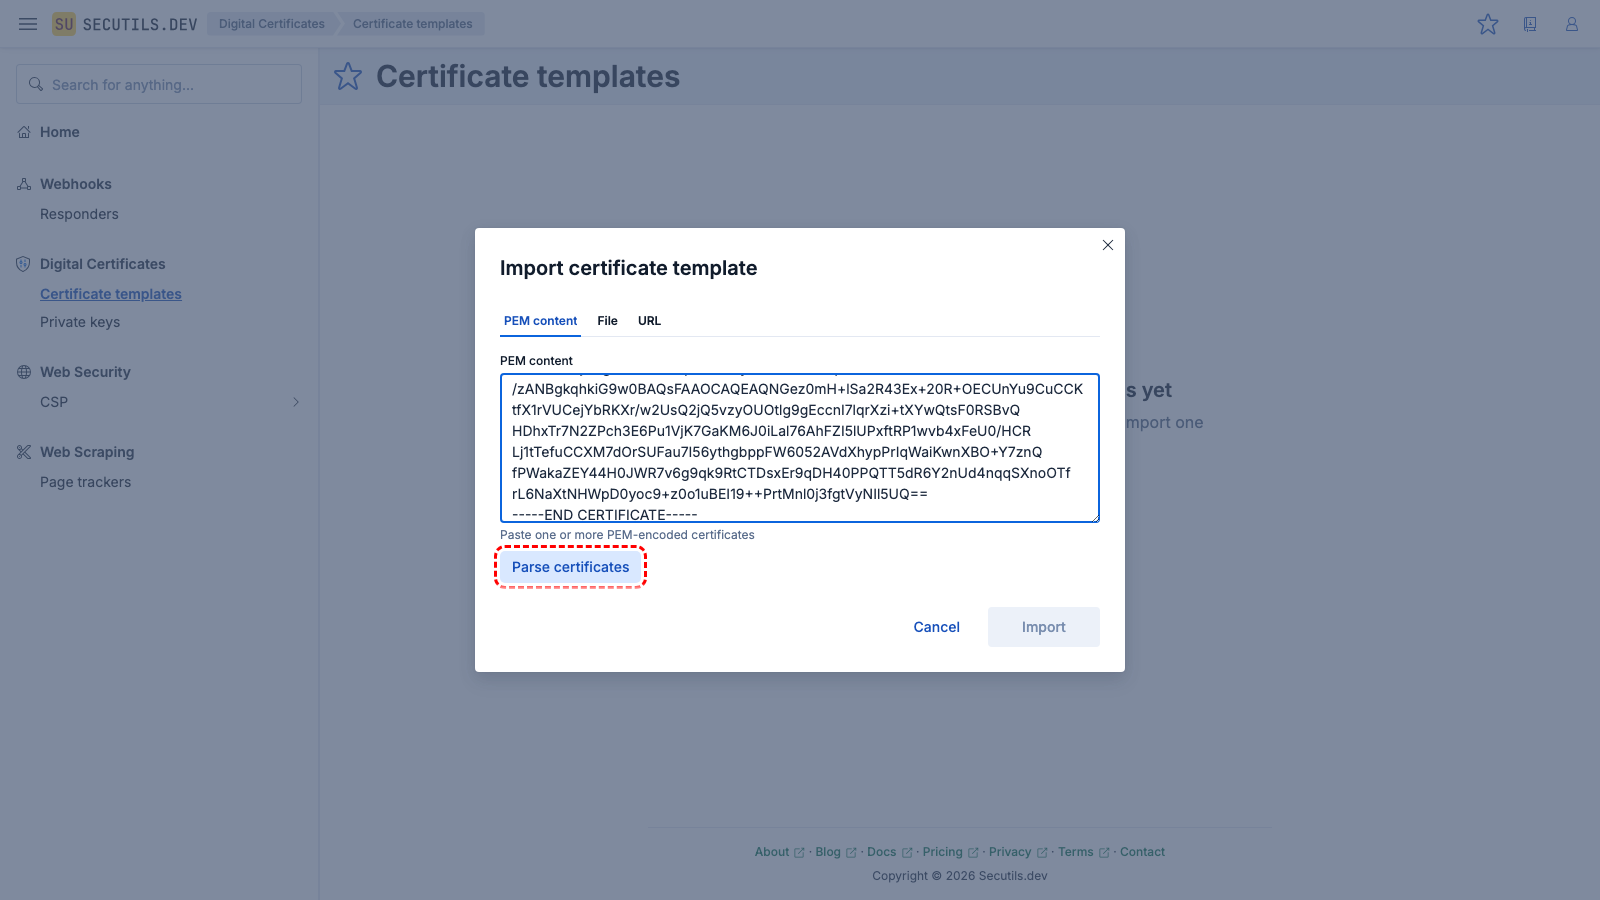
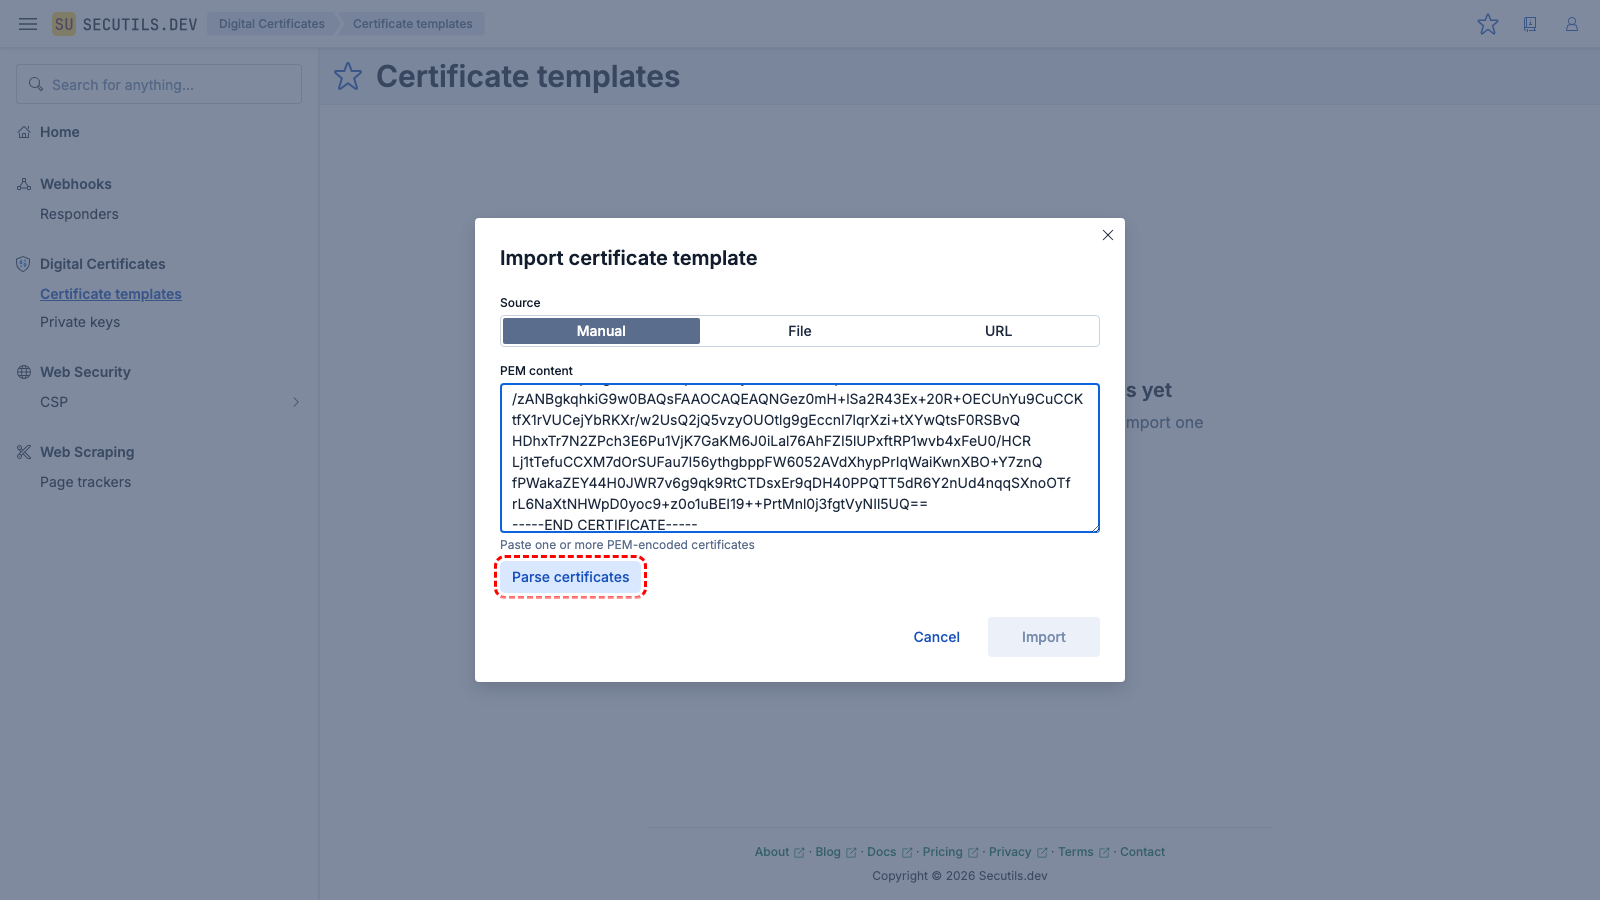
chore(certificates, ui): simplify import certificate modal

diff --git a/components/secutils-webui/src/pages/workspace/utils/certificates/certificate_template_import_modal.tsx b/components/secutils-webui/src/pages/workspace/utils/certificates/certificate_template_import_modal.tsx
@@ -1,6 +1,8 @@
 import {
   EuiButton,
   EuiButtonEmpty,
+  EuiButtonGroup,
+  EuiButtonIcon,
   EuiCallOut,
   EuiFieldText,
   EuiFilePicker,
@@ -12,14 +14,12 @@ import {
   EuiModalHeader,
   EuiModalHeaderTitle,
   EuiSpacer,
-  EuiTab,
-  EuiTabs,
   EuiText,
   EuiTextArea,
   EuiTitle,
   htmlIdGenerator,
 } from '@elastic/eui';
-import { useCallback, useState } from 'react';
+import { useCallback, useMemo, useState } from 'react';
 
 import type { CertificateSelection } from './certificate_import_preview';
 import { CertificateImportPreview } from './certificate_import_preview';
@@ -45,12 +45,18 @@ export interface CertificateTemplateImportModalProps {
   onClose: (success?: boolean) => void;
 }
 
-type ImportTab = 'pem' | 'file' | 'url';
+type ImportSource = 'manual' | 'file' | 'url';
+
+const SOURCE_OPTIONS: Array<{ id: ImportSource; label: string }> = [
+  { id: 'manual', label: 'Manual' },
+  { id: 'file', label: 'File' },
+  { id: 'url', label: 'URL' },
+];
 
 export function CertificateTemplateImportModal({ onClose }: CertificateTemplateImportModalProps) {
   const { uiState, addToast } = useWorkspaceContext();
 
-  const [activeTab, setActiveTab] = useState<ImportTab>('pem');
+  const [importSource, setImportSource] = useState<ImportSource>('manual');
   const [pemContent, setPemContent] = useState('');
   const [urlValue, setUrlValue] = useState('');
   const [parseError, setParseError] = useState<string | null>(null);
@@ -58,6 +64,7 @@ export function CertificateTemplateImportModal({ onClose }: CertificateTemplateI
   const [certificates, setCertificates] = useState<ParsedCertificate[]>([]);
   const [selections, setSelections] = useState<CertificateSelection[]>([]);
 
+  const [fetchStatus, setFetchStatus] = useState<AsyncData<undefined> | null>(null);
   const [parseStatus, setParseStatus] = useState<AsyncData<undefined> | null>(null);
   const [importStatus, setImportStatus] = useState<AsyncData<undefined> | null>(null);
 
@@ -66,6 +73,13 @@ export function CertificateTemplateImportModal({ onClose }: CertificateTemplateI
     setSelections([]);
     setParseError(null);
   }, []);
+
+  const clearAll = useCallback(() => {
+    setPemContent('');
+    setParseStatus(null);
+    setFetchStatus(null);
+    clearResults();
+  }, [clearResults]);
 
   const handleParsedCerts = useCallback(async (derBuffers: ArrayBuffer[], pemStrings: string[]) => {
     try {
@@ -99,7 +113,6 @@ export function CertificateTemplateImportModal({ onClose }: CertificateTemplateI
 
       try {
         const derBuffers = parsePemContent(content);
-        // Reconstruct PEM strings for each certificate.
         const pemStrings = derBuffers.map((der) => {
           const base64 = btoa(Array.from(new Uint8Array(der), (b) => String.fromCharCode(b)).join(''));
           const lines = base64.match(/.{1,64}/g) ?? [];
@@ -118,29 +131,30 @@ export function CertificateTemplateImportModal({ onClose }: CertificateTemplateI
 
   const handleFileUpload = useCallback(
     async (files: FileList | null) => {
+      clearResults();
       if (!files || files.length === 0) {
-        clearResults();
+        setPemContent('');
         return;
       }
 
-      const file = files[0];
       try {
-        const content = await file.text();
-        await handleParsePem(content);
+        const content = await files[0].text();
+        setPemContent(content);
       } catch (err) {
         setParseError(err instanceof Error ? err.message : 'Failed to read file.');
       }
     },
-    [clearResults, handleParsePem],
+    [clearResults],
   );
 
   const handleFetchUrl = useCallback(async () => {
-    if (!uiState.synced || parseStatus?.status === 'pending') {
+    if (!uiState.synced || fetchStatus?.status === 'pending') {
       return;
     }
 
     clearResults();
-    setParseStatus({ status: 'pending' });
+    setPemContent('');
+    setFetchStatus({ status: 'pending' });
 
     try {
       const response = await fetch(getApiUrl('/api/utils/certificates/templates/peer_certificates'), {
@@ -155,28 +169,20 @@ export function CertificateTemplateImportModal({ onClose }: CertificateTemplateI
       const pemStrings: string[] = await response.json();
       if (pemStrings.length === 0) {
         setParseError('No certificates found at the specified URL.');
-        setParseStatus({ status: 'failed', error: 'No certificates' });
+        setFetchStatus({ status: 'failed', error: 'No certificates' });
         return;
       }
 
-      const derBuffers = pemStrings.flatMap((pem) => {
-        try {
-          return parsePemContent(pem);
-        } catch {
-          return [];
-        }
-      });
-
-      await handleParsedCerts(derBuffers, pemStrings);
-      setParseStatus({ status: 'succeeded', data: undefined });
+      setPemContent(pemStrings.join('\n\n'));
+      setFetchStatus({ status: 'succeeded', data: undefined });
     } catch (err: unknown) {
       const errorMessage = getErrorMessage(err as Error);
       setParseError(
         isClientError(err as Error) ? errorMessage : 'Unable to fetch certificates from the specified URL.',
       );
-      setParseStatus({ status: 'failed', error: errorMessage });
+      setFetchStatus({ status: 'failed', error: errorMessage });
     }
-  }, [uiState.synced, parseStatus?.status, clearResults, urlValue, handleParsedCerts]);
+  }, [uiState.synced, fetchStatus?.status, clearResults, urlValue]);
 
   const selectedCerts = certificates
     .map((cert, index) => ({ cert, selection: selections[index] }))
@@ -241,55 +247,21 @@ export function CertificateTemplateImportModal({ onClose }: CertificateTemplateI
     }
   }, [canImport, uiState.synced, selectedCerts, addToast, onClose]);
 
-  const canParse =
-    parseStatus?.status !== 'pending' &&
-    ((activeTab === 'pem' && pemContent.trim().length > 0) ||
-      (activeTab === 'url' && isValidURL(urlValue) && urlValue.startsWith('https')));
+  const canParse = parseStatus?.status !== 'pending' && pemContent.trim().length > 0;
+  const canFetchUrl =
+    fetchStatus?.status !== 'pending' && uiState.synced && isValidURL(urlValue) && urlValue.startsWith('https');
 
-  const pemInput = (
-    <EuiFormRow label="PEM content" helpText="Paste one or more PEM-encoded certificates" fullWidth>
-      <EuiTextArea
-        fullWidth
-        value={pemContent}
-        rows={6}
-        placeholder={'-----BEGIN CERTIFICATE-----\nMIID...base64 encoded...\n-----END CERTIFICATE-----'}
-        onChange={(e) => {
-          setPemContent(e.target.value);
-          clearResults();
-        }}
+  const fetchUrlButton = useMemo(
+    () => (
+      <EuiButtonIcon
+        iconType="download"
+        aria-label="Fetch certificates"
+        isLoading={fetchStatus?.status === 'pending'}
+        isDisabled={!canFetchUrl}
+        onClick={handleFetchUrl}
       />
-    </EuiFormRow>
-  );
-
-  const fileInput = (
-    <EuiFormRow label="Certificate file" helpText="Select a .pem, .crt, .cer, or .cert file" fullWidth>
-      <EuiFilePicker
-        fullWidth
-        accept=".pem,.crt,.cer,.cert"
-        onChange={handleFileUpload}
-        display="default"
-        initialPromptText="Select or drag a certificate file"
-      />
-    </EuiFormRow>
-  );
-
-  const urlInput = (
-    <EuiFormRow
-      label="URL"
-      helpText="HTTPS URL to extract the TLS certificate chain from (e.g., https://example.com)"
-      fullWidth
-    >
-      <EuiFieldText
-        fullWidth
-        placeholder="https://example.com"
-        value={urlValue}
-        type="url"
-        onChange={(e) => {
-          setUrlValue(e.target.value);
-          clearResults();
-        }}
-      />
-    </EuiFormRow>
+    ),
+    [fetchStatus?.status, canFetchUrl, handleFetchUrl],
   );
 
   return (
@@ -303,53 +275,80 @@ export function CertificateTemplateImportModal({ onClose }: CertificateTemplateI
       </EuiModalHeader>
       <EuiModalBody>
         <EuiForm component="form" onSubmit={(e) => e.preventDefault()}>
-          <EuiTabs size="s">
-            <EuiTab
-              isSelected={activeTab === 'pem'}
-              onClick={() => {
-                setActiveTab('pem');
-                clearResults();
+          <EuiFormRow label="Source" fullWidth>
+            <EuiButtonGroup
+              legend="Certificate source"
+              options={SOURCE_OPTIONS}
+              idSelected={importSource}
+              onChange={(id) => {
+                setImportSource(id as ImportSource);
+                clearAll();
               }}
-            >
-              PEM content
-            </EuiTab>
-            <EuiTab
-              isSelected={activeTab === 'file'}
-              onClick={() => {
-                setActiveTab('file');
-                clearResults();
-              }}
-            >
-              File
-            </EuiTab>
-            <EuiTab
-              isSelected={activeTab === 'url'}
-              onClick={() => {
-                setActiveTab('url');
-                clearResults();
-              }}
-            >
-              URL
-            </EuiTab>
-          </EuiTabs>
-          <EuiSpacer size="m" />
-          {activeTab === 'pem' ? pemInput : null}
-          {activeTab === 'file' ? fileInput : null}
-          {activeTab === 'url' ? urlInput : null}
+              buttonSize="compressed"
+              isFullWidth
+            />
+          </EuiFormRow>
 
-          {activeTab !== 'file' ? (
-            <>
-              <EuiSpacer size="s" />
-              <EuiButton
-                size="s"
-                onClick={activeTab === 'pem' ? () => handleParsePem(pemContent) : handleFetchUrl}
-                isLoading={parseStatus?.status === 'pending'}
-                isDisabled={!canParse}
-              >
-                {activeTab === 'url' ? 'Fetch certificates' : 'Parse certificates'}
-              </EuiButton>
-            </>
+          {importSource === 'file' ? (
+            <EuiFormRow label="Certificate file" helpText="Select a .pem, .crt, .cer, or .cert file" fullWidth>
+              <EuiFilePicker
+                fullWidth
+                accept=".pem,.crt,.cer,.cert"
+                onChange={handleFileUpload}
+                display="default"
+                initialPromptText="Select or drag a certificate file"
+              />
+            </EuiFormRow>
           ) : null}
+
+          {importSource === 'url' ? (
+            <EuiFormRow
+              label="URL"
+              helpText="HTTPS URL to extract the TLS certificate chain from (e.g., https://example.com)"
+              fullWidth
+            >
+              <EuiFieldText
+                fullWidth
+                placeholder="https://example.com"
+                value={urlValue}
+                type="url"
+                onChange={(e) => {
+                  setUrlValue(e.target.value);
+                  clearResults();
+                  setPemContent('');
+                }}
+                append={fetchUrlButton}
+              />
+            </EuiFormRow>
+          ) : null}
+
+          <EuiFormRow
+            label="PEM content"
+            helpText={importSource === 'manual' ? 'Paste one or more PEM-encoded certificates' : undefined}
+            fullWidth
+          >
+            <EuiTextArea
+              fullWidth
+              value={pemContent}
+              rows={6}
+              readOnly={importSource !== 'manual'}
+              placeholder={'-----BEGIN CERTIFICATE-----\nMIID...base64 encoded...\n-----END CERTIFICATE-----'}
+              onChange={(e) => {
+                setPemContent(e.target.value);
+                clearResults();
+              }}
+            />
+          </EuiFormRow>
+
+          <EuiSpacer size="s" />
+          <EuiButton
+            size="s"
+            onClick={() => handleParsePem(pemContent)}
+            isLoading={parseStatus?.status === 'pending'}
+            isDisabled={!canParse}
+          >
+            Parse certificates
+          </EuiButton>
         </EuiForm>
 
         {parseError ? (

diff --git a/e2e/docs/digital_certificates.spec.ts b/e2e/docs/digital_certificates.spec.ts
@@ -499,22 +499,32 @@ test.describe('Certificate templates guide screenshots', () => {
     await highlightOn(importButton);
     await page.screenshot({ path: join(CERT_TEMPLATES_IMG_DIR, 'import_url_step1_empty.png') });
 
-    // Step 2: Open the modal, switch to the URL tab, enter a URL and click Fetch.
+    // Step 2: Open the modal, select URL source, enter a URL and highlight the fetch button.
     await highlightOff(importButton);
     await importButton.click();
     const modal = page.getByRole('dialog').filter({ has: page.getByText('Import certificate template') });
     await expect(modal).toBeVisible({ timeout: 10000 });
 
-    await modal.getByRole('tab', { name: 'URL' }).click();
-    const urlInput = modal.getByRole('textbox');
+    await modal.getByRole('button', { name: 'URL', exact: true }).click();
+    const urlInput = modal.getByRole('textbox', { name: 'URL' });
     await urlInput.fill('https://test.example.com');
 
     const fetchButton = modal.getByRole('button', { name: 'Fetch certificates' });
     await highlightOn(fetchButton);
     await page.screenshot({ path: join(CERT_TEMPLATES_IMG_DIR, 'import_url_step2_url.png') });
 
-    // Step 3: Fetch and preview.
+    // Step 3: Fetch certificates and show the loaded PEM content.
     await fetchButton.click();
+
+    const pemTextarea = modal.getByRole('textbox', { name: 'PEM content' });
+    await expect(pemTextarea).toHaveValue(/BEGIN CERTIFICATE/, { timeout: 10000 });
+
+    const parseButton = modal.getByRole('button', { name: 'Parse certificates' });
+    await highlightOn(parseButton);
+    await page.screenshot({ path: join(CERT_TEMPLATES_IMG_DIR, 'import_url_step3_pem_loaded.png') });
+
+    // Step 4: Parse and preview.
+    await parseButton.click();
 
     await expect(modal.getByText('1 certificate found')).toBeVisible({ timeout: 10000 });
 
@@ -523,9 +533,9 @@ test.describe('Certificate templates guide screenshots', () => {
 
     const importActionButton = modal.getByRole('button', { name: /Import/ }).last();
     await highlightOn(importActionButton);
-    await page.screenshot({ path: join(CERT_TEMPLATES_IMG_DIR, 'import_url_step3_preview.png') });
+    await page.screenshot({ path: join(CERT_TEMPLATES_IMG_DIR, 'import_url_step4_preview.png') });
 
-    // Step 4: Import and show the template in the grid.
+    // Step 5: Import and show the template in the grid.
     await importActionButton.click();
 
     await expect(modal).not.toBeVisible({ timeout: 15000 });
@@ -534,7 +544,7 @@ test.describe('Certificate templates guide screenshots', () => {
     const templateRow = page.getByRole('row').filter({ has: page.getByRole('cell', { name: 'test.example.com' }) });
     await expect(templateRow).toBeVisible({ timeout: 10000 });
     await highlightOn(templateRow);
-    await page.screenshot({ path: join(CERT_TEMPLATES_IMG_DIR, 'import_url_step4_imported.png') });
+    await page.screenshot({ path: join(CERT_TEMPLATES_IMG_DIR, 'import_url_step5_imported.png') });
   });
 
   test('Share a certificate template', async ({ page }) => {
